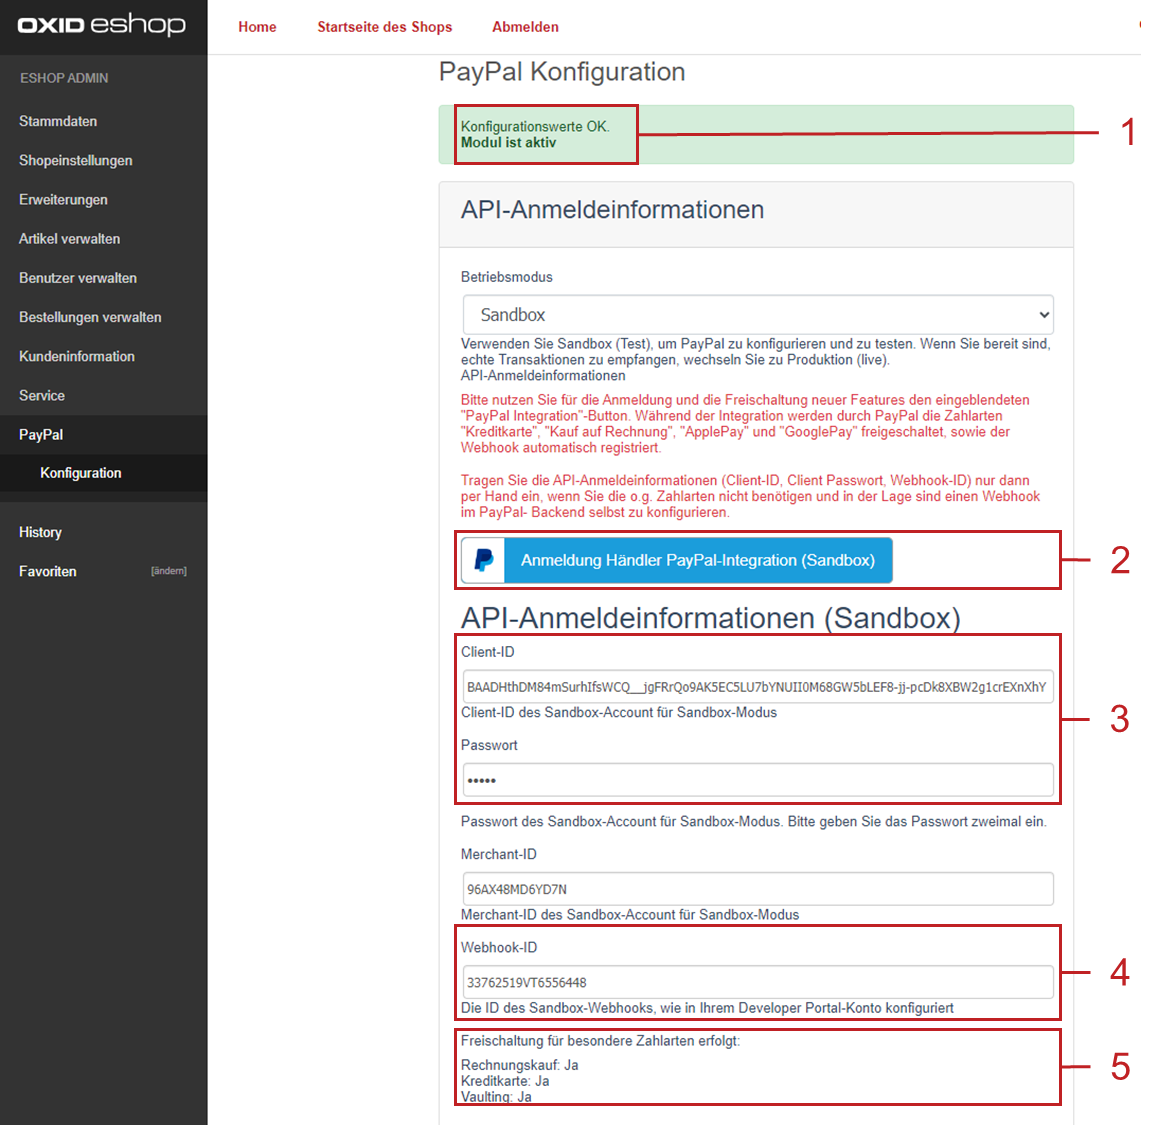
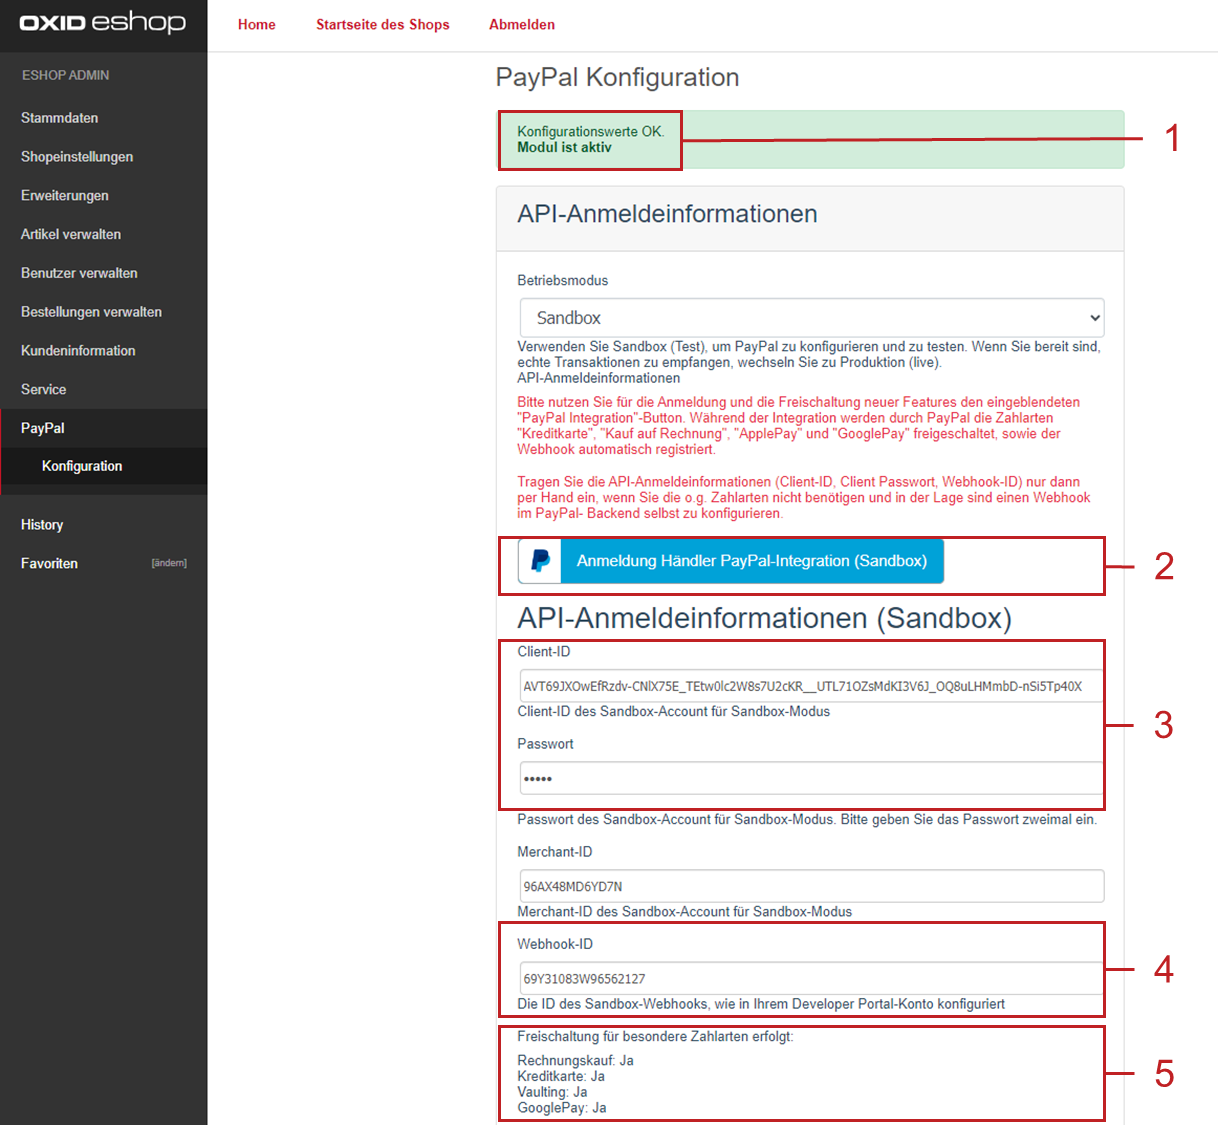
OXDEV-8288: PayPal Checkout V. 2.4.1 draft

diff --git a/conf.py b/conf.py
@@ -70,7 +70,7 @@ author = 'OXID eSales AG'
 # The short X.Y version.
 version = '2.4'
 # The full version, including alpha/beta/rc tags.
-release = '2'
+release = '2.4.1'
 
 # The language for content autogenerated by Sphinx. Refer to documentation
 # for a list of supported languages.

diff --git a/einfuehrung.rst b/einfuehrung.rst
@@ -34,9 +34,10 @@ Beachten Sie jeweils die Währungsabdeckung der einzelnen Zahlungsmethoden (sieh
 ==================  ==========================
 Markt               Zahlungsmethoden
 ==================  ==========================
+Weltweit	        Google Pay
+Weltweit            Kreditkarte
 Weltweit	        PayPal
 Weltweit	        PayPal Express
-Weltweit            Kreditkarte
 Belgien	            Bancontact
 Deutschland	        GiroPay
 Deutschland	        PayPal - Später bezahlen
@@ -62,13 +63,14 @@ Beachten Sie jeweils die Währungsabdeckung der einzelnen Zahlungsmethoden (sieh
 ========================== ===============
 Zahlungsmethoden           Märkte
 ========================== ===============
-Bancontact	               Belgien
-BLIK	                   Polen
-eps	                       Österreich
-GiroPay	                   Deutschland
-iDEAL 	                   Niederlande
+Bancontact                 Belgien
+BLIK                       Polen
+eps                        Österreich
+GiroPay                    Deutschland
+Google Pay                 Weltweit
+iDEAL                      Niederlande
 Kreditkarte                Weltweit
-PayPal	                   Weltweit
+PayPal                     Weltweit
 PayPal Express             Weltweit
 PayPal - Später bezahlen   Deutschland
 PayPal - Später bezahlen   Frankreich
@@ -77,30 +79,31 @@ PayPal - Später bezahlen   Italien
 PayPal - Später bezahlen   Österreich
 PayPal - Später bezahlen   Spanien
 PayPal - Später bezahlen   Vereinigte Staaten
-Przelewy24	               Polen
-Rechnungskauf	           Deutschland
+Przelewy24                 Polen
+Rechnungskauf              Deutschland
 SEPA Lastschrift           Deutschland
 ========================== ===============
+
 
 Währungsabdeckung nach Zahlungsmethode
 ^^^^^^^^^^^^^^^^^^^^^^^^^^^^^^^^^^^^^^
 
 =============================== ===============
-Payment methods                 Currencies
+Zahlungsmethoden                Währungen
 =============================== ===============
-PayPal                          AUD, BRL, CAD, CNY, CZK, DKK, EUR, HKD, HUF, ILS, JPY, MYR, MXN, TWD, NZD, NOK, PHP, PLN, GBP, RUB, SGD, SEK, CHF, THB, USD
-PayPal Express                  AUD, BRL, CAD, CNY, CZK, DKK, EUR, HKD, HUF, ILS, JPY, MYR, MXN, TWD, NZD, NOK, PHP, PLN, GBP, RUB, SGD, SEK, CHF, THB, USD
-PayPal - Später bezahlen        AUD, EUR, GBP, USD
-Rechnungskauf                   EUR
-Kreditkarte                     AUD, CAD, CHF, CZK, DKK, EUR, GBP, HKD, HUF, JPY, NOK, NZD, PLN, SEK, SGD, USD
 Bancontact                      EUR
 BLIK                            PLN
 EPS                             EUR
 GiroPay                         EUR
+Google Pay                      AUD, BRL, CAD, CNY, CZK, DKK, EUR, HKD, HUF, ILS, JPY, MYR, MXN, TWD, NZD, NOK, PHP, PLN, GBP, RUB, SGD, SEK, CHF, THB, USD
 Ideal                           EUR
+Kreditkarte                     AUD, CAD, CHF, CZK, DKK, EUR, GBP, HKD, HUF, JPY, NOK, NZD, PLN, SEK, SGD, USD
+PayPal                          AUD, BRL, CAD, CNY, CZK, DKK, EUR, HKD, HUF, ILS, JPY, MYR, MXN, TWD, NZD, NOK, PHP, PLN, GBP, RUB, SGD, SEK, CHF, THB, USD
+PayPal Express                  AUD, BRL, CAD, CNY, CZK, DKK, EUR, HKD, HUF, ILS, JPY, MYR, MXN, TWD, NZD, NOK, PHP, PLN, GBP, RUB, SGD, SEK, CHF, THB, USD
+PayPal - Später bezahlen        AUD, EUR, GBP, USD
 Przelewy24                      EUR, PLN
+Rechnungskauf                   EUR
 =============================== ===============
-
 
 Sie haben das Modul PayPal?
 ---------------------------

diff --git a/installation.rst b/installation.rst
@@ -44,11 +44,11 @@ Installieren Sie für den OXID eShop 6.3.x bis 6.5.x  das Zahlungsmodul :product
 
       cd /var/www/oxideshop
 
-#. Führen Sie folgende Befehle aus:
+#. Führen Sie folgenden Befehl aus:
 
    .. code:: bash
 
-      composer require oxid-solution-catalysts/paypal-module ^2.4.0
+      composer require oxid-solution-catalysts/paypal-module ^2.4.1
 
 #. Optional: Um das Modul zu aktivieren, führen Sie folgenden Befehl aus.
    |br|
@@ -81,32 +81,29 @@ Installieren Sie bei Bedarf ein Minor Update, beispielsweise von :productname:`P
 
    .. code:: bash
 
-      composer require oxid-solution-catalysts/paypal-module ^2.4.0
+      composer require oxid-solution-catalysts/paypal-module ^2.4.1
       composer update
 
 #. Um neue Zahlungsarten oder Funktionen nutzen zu können, durchlaufen Sie den Registrierungsprozess (Onboarding) neu.
 
    Weitere Informationen finden Sie unter :ref:`konfiguration:API-Anmeldeinformationen: Onboarding`.
 
-.. todo: mit 241 reaktivieren
-    Patch-Update installieren
-    -------------------------
-    Installieren Sie bei Bedarf ein Patch-Update, beispielsweise von :productname:`PayPal Checkout` Version 2.3.0 auf Version 2.3.1.
-    |procedure|
-    1. Führen Sie folgenden Befehl aus:
-       .. code:: bash
-          composer update
-    #. Bestätigen Sie die Abfrage, ob die :file:`oxid-solution-catalysts/paypal-module`-Dateien überschrieben werden sollen.
-       .. attention::
-          **Länderzuordnungen prüfen nach Update auf PayPal Checkout Version 2.1.5**
-          Mit Version 2.1.4 wurde die Länderabdeckung einzelner :productname:`PayPal Checkout`-Zahlungsmethoden erweitert.
-          Stellen Sie sicher, dass Sie die erweiterte Länderabdeckung nutzen können.
-          Hintergrund: Mit :productname:`PayPal Checkout` Version 2.1.5 sind bei der Erstinstallation die Länder automatisch den Zahlungsarten zugeordnet (siehe :ref:`konfiguration:Optional: Länderzuordnung von PayPal Checkout-Zahlungsmethoden konfigurieren`).
-          Dadurch kann es sein, dass Konfigurationseinstellungen Ihrer bestehenden Version die Nutzung neuer Länderzuordnungen blockieren.
-          Tun Sie Folgendes:
-          1. Wählen Sie :menuselection:`Shopeinstellungen --> Zahlungsarten --> <Zahlungsart> --> Länder --> Länder zuordnen`.
-          #. Um die gesamte Länderabdeckung einer Zahlungsart zu nutzen, löschen Sie bestehende Zuordnungen.
+.. todo: #ML: Nennen wir das "Patch-Update"? -- stimmt es so für 241?
 
+Patch-Update installieren
+-------------------------
+Installieren Sie bei Bedarf ein Patch-Update, beispielsweise von :productname:`PayPal Checkout` Version 2.4.0 auf Version 2.4.1.
 
+|procedure|
+1. Führen Sie folgenden Befehl aus:
+
+   .. code:: bash
+
+      composer update
+
+#. Bestätigen Sie die Abfrage, ob die :file:`oxid-solution-catalysts/paypal-module`-Dateien überschrieben werden sollen.
+#. Um neue Zahlungsarten oder Funktionen nutzen zu können, durchlaufen Sie den Registrierungsprozess (Onboarding) neu.
+
+   Weitere Informationen finden Sie unter :ref:`konfiguration:API-Anmeldeinformationen: Onboarding`.
 
 .. Intern: oxdajq, Status:

diff --git a/releases/paypal-checkout-241.rst b/releases/paypal-checkout-241.rst
@@ -1,0 +1,78 @@
+PayPal Checkout V. 2.4
+======================
+
+Release-Datum: #tbd.2024
+
+Neue oder geänderte Funktionen
+------------------------------
+
+Wir haben
+
+* die Zahlungsart GooglePay hinzugefügt
+
+.. todo: #ML: Was steckt hinter folgendem?
+    * PayPal-Request-Id based on serialized body, no extra PayPal-Request-Id necessary anymore
+    * use PayPal-Client v2.0.14
+
+
+GooglePay
+^^^^^^^^^
+
+.. todo: #ML: Registrierungsprozess (Onboarding) (erneut) durchlaufen nach Update?
+.. todo: https://github.com/OXID-eSales/paypal-module/blob/v2.4.1-rc.1/src/Core/PayPalDefinitions.php
+
+Ermöglichen Sie mit GooglePay Zahlungsvorgänge weltweit und in 25 Währungen.
+
+Weitere Informationen zur Abdeckung finden Sie unter
+
+* :ref:`einfuehrung:Marktabdeckung nach Zahlungsmethoden`
+* :ref:`einfuehrung:Währungsabdeckung nach Zahlungsmethode`
+
+|procedure|
+
+1. Installieren Sie :productname:`PayPal Checkout` neu oder machen Sie ein Update.
+#. Durchlaufen Sie den Registrierungsprozess (Onboarding) (auch bei einem Update).
+
+   Weitere Informationen finden Sie unter :ref:`konfiguration:API-Anmeldeinformationen: Onboarding`.
+
+#. Verifizieren Sie, dass die Freischaltung für die Zahlungsart Google Pay erfolgt ist (:ref:`oxdajr05rn`, Pos. 5).
+
+   .. _oxdajr05rn:
+
+   .. figure:: /media/screenshots/oxdajr05.png
+      :alt: Client-ID/Passwort und Webhook-ID erzeugt
+      :width: 650
+      :class: with-shadow
+
+      Abb.: Client-ID/Passwort und Webhook-ID erzeugt
+
+   Wenn keine Freischaltung erfolgt ist, kontaktieren Sie den PayPal-Support.
+
+#. Konfigurieren Sie die Länderzuordnung von Google Pay.
+
+   Weitere Informationen finden Sie unter :ref:`konfiguration:Optional: Länderzuordnung von PayPal Checkout-Zahlungsmethoden konfigurieren`.
+
+#. Um die Zahlungsart Google Pay zu konfigurieren, wählen Sie :menuselection:`Shopeinstellungen --> Zahlungsarten --> GooglePay`.
+
+   .. todo: #ML: Muss ich mehr tun, um Google Pay zu konfigurieren?
+
+#. Schalten Sie Google Pay nach dem Testen für den Live-Betrieb frei.
+
+   Weitere Informationen finden Sie unter :ref:`konfiguration:PayPal Checkout freischalten`.
+
+Installation
+------------
+
+Um :productname:`PayPal Checkout` V. 2.4.1 zu nutzen, installieren Sie es in Ihrem :productname:`OXID eShop` 6.3.x to 6.5.x.
+
+Weitere Informationen finden Sie unter :ref:`installation:Installation`.
+
+Update
+------
+
+Um die Funktionen und Korrekturen von :productname:`PayPal Checkout` V. 2.4.1 in einer bestehenden Installation zu nutzen, machen Sie ein Update.
+
+Weitere Informationen finden Sie unter
+
+* :ref:`installation:Minor Update installieren`
+* :ref:`installation:Patch-Update installieren`

diff --git a/konfiguration.rst b/konfiguration.rst
@@ -230,6 +230,15 @@ Erst wenn alles nach Ihren Vorstellungen funktioniert, nutzen Sie die Zugangsdat
   |br|
   Weitere Informationen finden Sie unter :ref:`paypal-sandbox:Temporäres SSL einrichten`.
 
+* Wenn Sie Google Pay anbieten wollen, haben Sie für Testzahlungen
+
+  * ein Google-Konto
+  * eine Kreditkarte
+
+  Wenn Sie im Sandbox-Modus Zahlungen mit Ihrer Kreditarte ausführen, wird Ihre Kreditkarte :emphasis:`nicht` belastet. Google ersetzt Ihre echte Kreditkarten-Nummer durch eine Muster-Kreditkarten-Nummer.
+
+  .. todo: #ML: Unter welcher URL finde ich bei PayPal etwas über Google Pay?
+    Weitere Informationen finden Sie in der PayPal-Checkout-Dokumentation unter `Development resources --> Integration --> Testing --> Test card numbers --> Google Pay <https://docs.adyen.com/development-resources/testing/test-card-numbers#google-pay>`_.
 
 |procedure|
 
@@ -436,8 +445,8 @@ Weitere Informationen über Länder-Abdeckung und landesspezifische Funktionen d
 #. Speichern Sie Ihre Einstellungen.
 
 
-Login mit PayPal
-^^^^^^^^^^^^^^^^
+Login mit PayPal: Automatisches Anmelden aktivieren
+^^^^^^^^^^^^^^^^^^^^^^^^^^^^^^^^^^^^^^^^^^^^^^^^^^^
 
 Legen Sie fest, dass Kunden automatisch in Ihrem OXID eShop angemeldet sind,
 
@@ -651,7 +660,7 @@ Banner-Einstellungen übernehmen
 
 Optional: Wenn Sie bereits das Modul :productname:`PayPal` nutzen, übernehmen Sie bequem die Bannereinstellungen für :productname:`PayPal Checkout`.
 
-Alternativ: Legen Sie die Bannereinstellungen manuell fest wie beschrieben unter :ref:`konfiguration:Banner-Einstellungen`.
+Alternativ: Legen Sie die Bannereinstellungen manuell fest wie beschrieben unter :ref:`konfiguration:Banner-Einstellungen: Ratenzahlung konfigurieren`.
 
 |prerequisites|
 
@@ -666,8 +675,8 @@ Alternativ: Legen Sie die Bannereinstellungen manuell fest wie beschrieben unter
 #. Speichern Sie Ihre Einstellungen.
 
 
-Banner-Einstellungen
-^^^^^^^^^^^^^^^^^^^^
+Banner-Einstellungen: Ratenzahlung konfigurieren
+^^^^^^^^^^^^^^^^^^^^^^^^^^^^^^^^^^^^^^^^^^^^^^^^
 
 Legen Sie fest, ob Sie mit Bannern für die PayPal-Ratenzahlung (:ref:`oxdajr08`) werben wollen.
 

diff --git a/troubleshooting.rst b/troubleshooting.rst
@@ -19,8 +19,6 @@ Um sicherzustellen, dass alle Zahlungsarten und Funktionen verfügbar sind, tun 
 #. Wählen Sie :guilabel:`Anmeldung Händler PayPal-Integration (Sandbox)`.
 #. Um Zugangsdaten und Webhook neu zu generieren, durchlaufen Sie den Registrierungs-Prozess (Onboarding) mit der E-Mail-Adresse des Sandbox-Händlerkontos.
 
-   .. todo: #ML: Auch hier "Zugangsdaten und Webhook"
-
 Weitere Informationen finden Sie im Kapitel :ref:`konfiguration:Konfiguration` unter :ref:`konfiguration:API-Anmeldeinformationen: Onboarding`.
 
 Debug-Modus einschalten

diff --git a/releases/index.rst b/releases/index.rst
@@ -5,6 +5,7 @@ Release Notes
    :maxdepth: 1
    :caption: Paypal Checkout
 
+   Release Notes Paypal Checkout 2.4.1 <paypal-checkout-241.rst>
    Release Notes Paypal Checkout 2.4.0 <paypal-checkout-240.rst>
    Release Notes Paypal Checkout 2.3.0 <paypal-checkout-230.rst>
-   Changelog (GitHub) <https://github.com/OXID-eSales/paypal-module/blob/v2.4.0/CHANGELOG.md>
+   Changelog (GitHub) <https://github.com/OXID-eSales/paypal-module/blob/v2.4.1/CHANGELOG.md>
